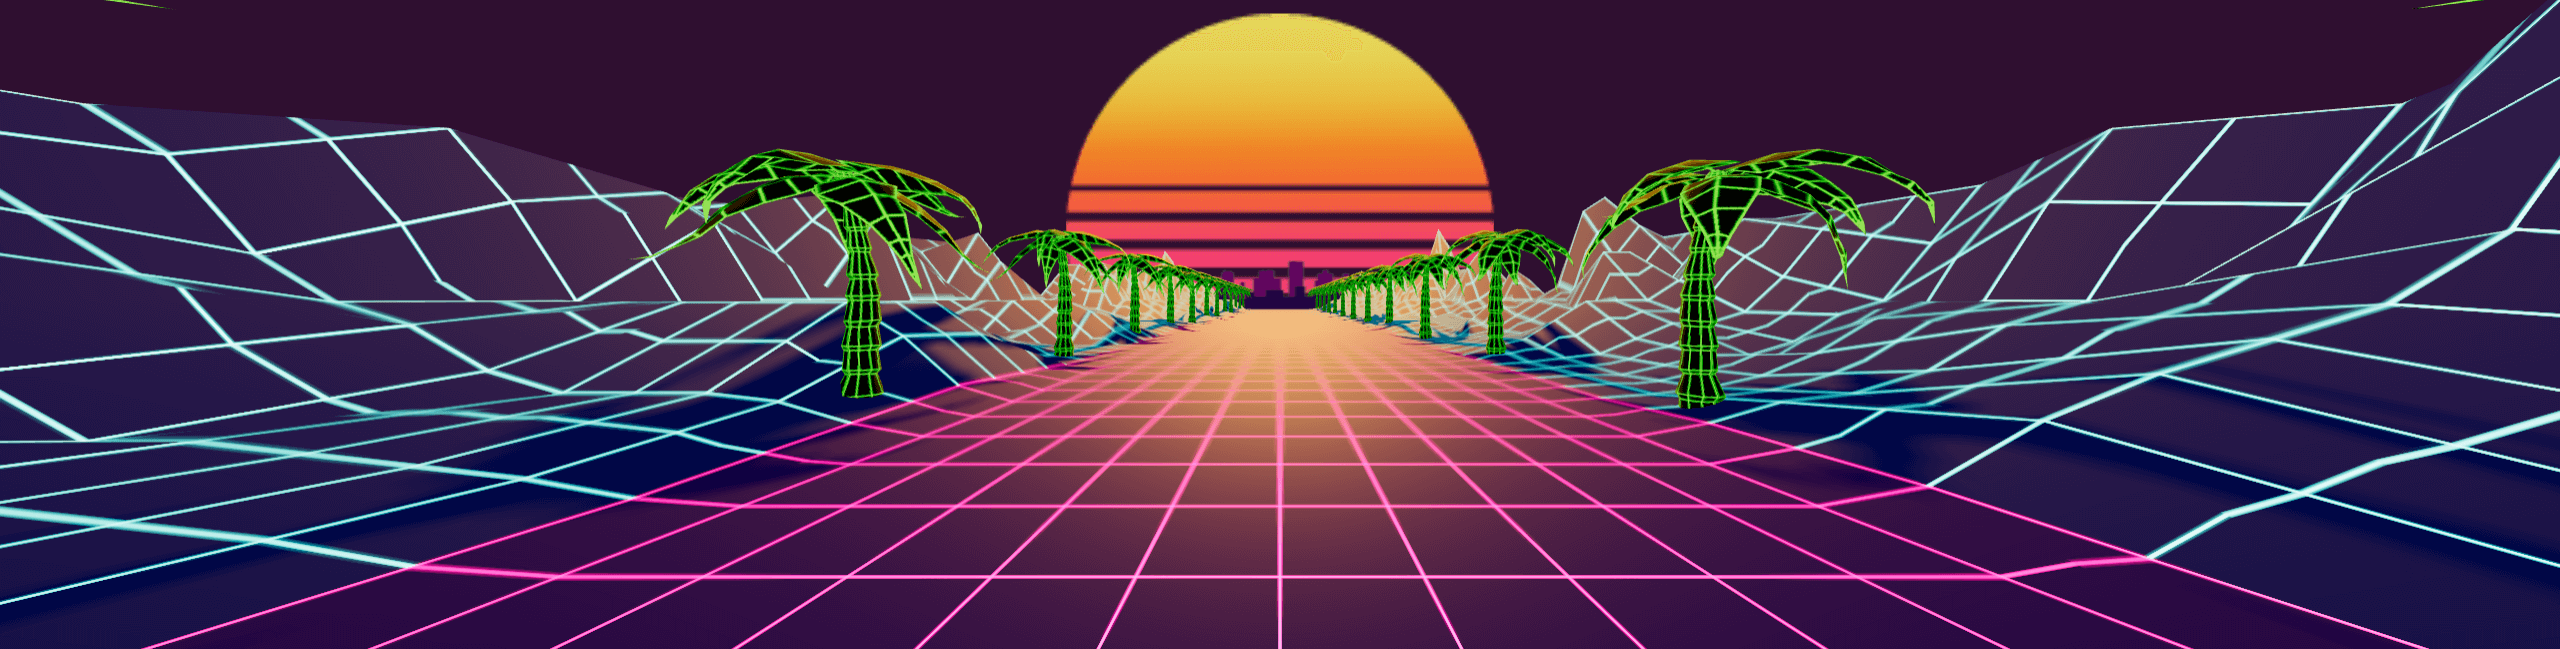
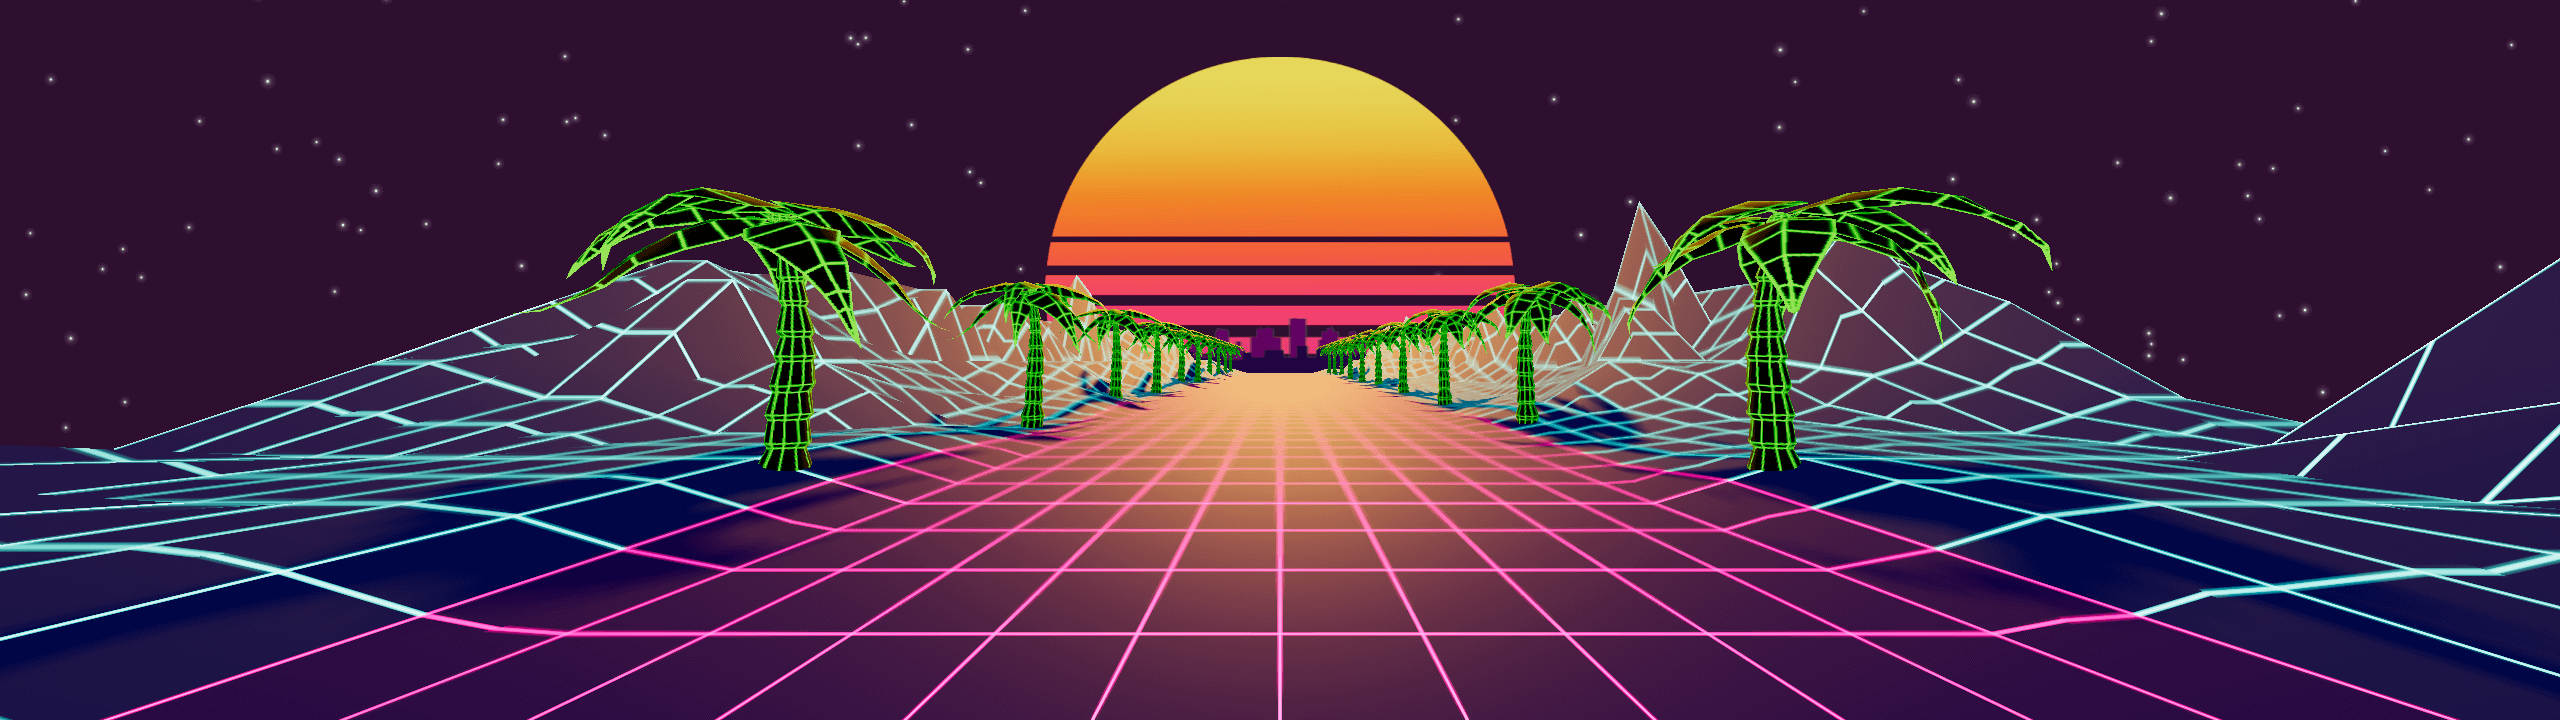
new static image

diff --git a/components/neonRoad/StaticImage.tsx b/components/neonRoad/StaticImage.tsx
@@ -10,7 +10,7 @@ const StaticImage: React.FC<IProps> = (props) => {
 
     return (
         <Image
-            src="/assets/images/neonroad/static-min.png"
+            src="/assets/images/neonroad/fallback-min.png"
             alt={altText}
             fill
             style={{ objectFit: 'cover' }}
